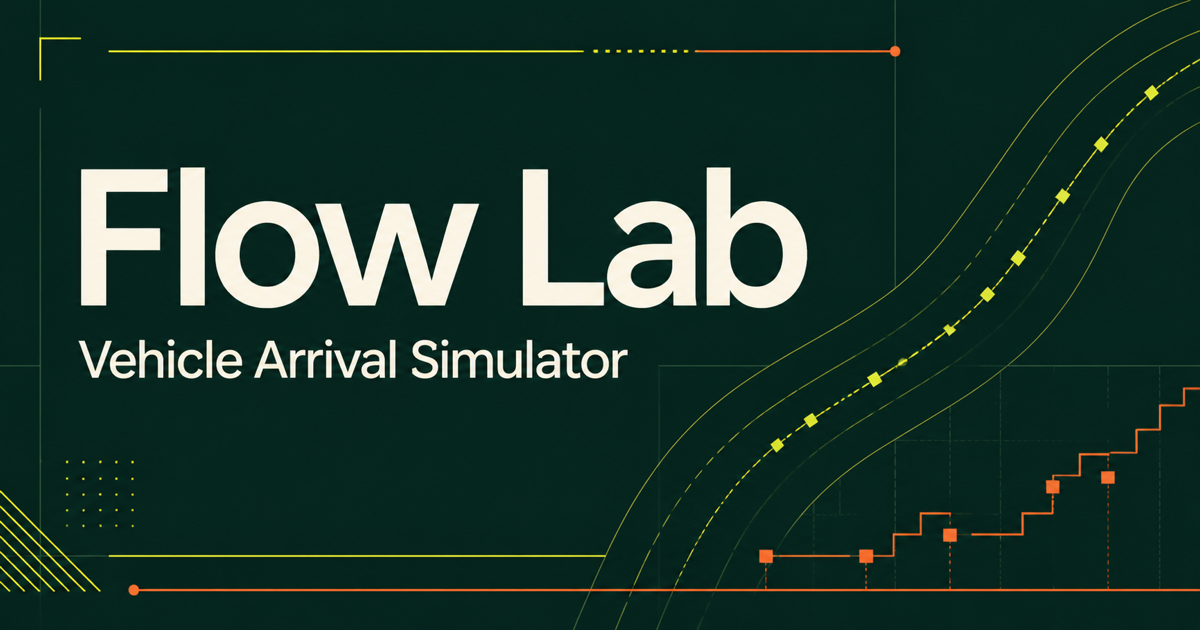
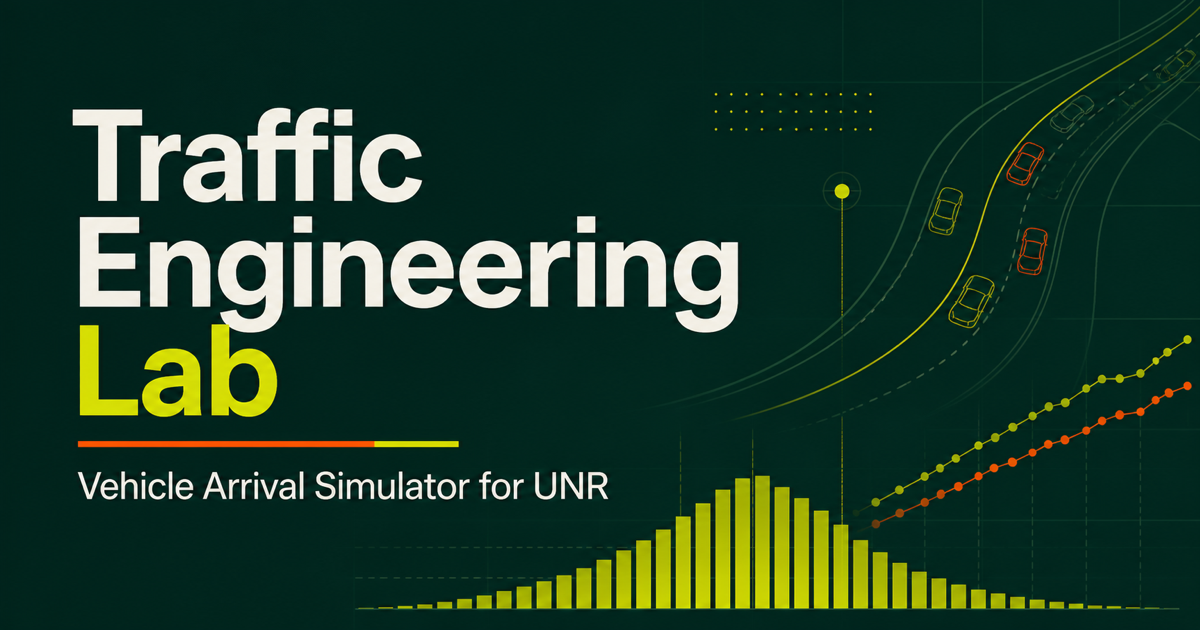
Rebrand site for UNR Traffic Engineering Lab

diff --git a/app/globals.css b/app/globals.css
@@ -8,6 +8,7 @@ button,input { font:inherit; }
 button { cursor:pointer; }
 .topbar { height:70px; padding:0 clamp(24px,5vw,76px); display:flex; align-items:center; justify-content:space-between; background:var(--deep); color:var(--white); border-bottom:1px solid #34504d; }
 .brand { display:flex; align-items:center; gap:13px; color:inherit; text-decoration:none; font-weight:800; letter-spacing:.13em; font-size:14px; }
+.brand small { color:var(--acid); font-size:9px; letter-spacing:.1em; white-space:nowrap; }
 .brandMark { width:29px; height:29px; display:grid; grid-template-columns:repeat(3,1fr); gap:3px; transform:skew(-8deg); }
 .brandMark i { display:block; background:var(--acid); }
 .brandMark i:nth-child(2) { background:var(--orange); }
@@ -118,5 +119,5 @@ tbody tr:last-child td { border-bottom:0; }
 tbody tr:hover { background:#f7f4eb; }
 footer { max-width:1280px; margin:0 auto; padding:24px 0; color:var(--muted); font-family:var(--font-geist-mono),monospace; font-size:8px; letter-spacing:.11em; }
 @media (max-width:820px) { .headerMeta{display:none}.hero{padding-top:54px}.hero::after{opacity:.25}.workspace{grid-template-columns:1fr;border:0}.controlPanel{border-right:0;border-bottom:1px solid var(--line);padding:36px 24px}.resultsPanel{padding:38px 24px 48px}.metricGrid{grid-template-columns:1fr 1fr}.metric{border-bottom:1px solid var(--line)}.metric:last-child{grid-column:1/-1;border-left:0;border-bottom:0}.ensembleGrid{grid-template-columns:1fr 1fr}.ensembleGrid article:nth-child(3){border-left:0;border-top:1px solid var(--line)}.ensembleGrid article:nth-child(4){border-top:1px solid var(--line)}footer{padding:22px 24px} }
-@media (max-width:520px) { .topbar{height:62px}.hero{padding:48px 24px}.hero h1{font-size:52px}.metricGrid{grid-template-columns:1fr}.metric,.metric:last-child{grid-column:auto;border-left:0}.distributionHeader{align-items:flex-start;gap:12px;flex-direction:column}.distributionHeader p{display:block;margin:6px 0 0}.distributionActions{width:100%;justify-content:space-between}.distributionHeader button{white-space:nowrap}.headwayLegend{justify-content:flex-start;gap:14px}.headwayChartWrap{padding-left:6px;padding-right:6px}.vehicleHistogram{height:190px;padding-left:12px;padding-right:12px;gap:4px}.vehicleHistLabel{font-size:6px}.chartCaption span:last-child{display:none}.tableHeader p{display:none}.road{margin:0 12px}footer{align-items:flex-start;gap:10px;flex-direction:column} }
+@media (max-width:520px) { .topbar{height:62px}.brand{font-size:10px;letter-spacing:.08em;gap:9px}.brandMark{width:24px;height:24px}.brand small{display:block;margin-top:3px;font-size:7px}.hero{padding:48px 24px}.hero h1{font-size:52px}.metricGrid{grid-template-columns:1fr}.metric,.metric:last-child{grid-column:auto;border-left:0}.distributionHeader{align-items:flex-start;gap:12px;flex-direction:column}.distributionHeader p{display:block;margin:6px 0 0}.distributionActions{width:100%;justify-content:space-between}.distributionHeader button{white-space:nowrap}.headwayLegend{justify-content:flex-start;gap:14px}.headwayChartWrap{padding-left:6px;padding-right:6px}.vehicleHistogram{height:190px;padding-left:12px;padding-right:12px;gap:4px}.vehicleHistLabel{font-size:6px}.chartCaption span:last-child{display:none}.tableHeader p{display:none}.road{margin:0 12px}footer{align-items:flex-start;gap:10px;flex-direction:column} }
 @media (prefers-reduced-motion:reduce) { *,*::before,*::after{scroll-behavior:auto!important;transition:none!important} }

diff --git a/app/page.tsx b/app/page.tsx
@@ -255,9 +255,9 @@ export default function Home() {
   return (
     <main>
       <header className="topbar">
-        <a className="brand" href="#top" aria-label="Flow Lab home">
+        <a className="brand" href="#top" aria-label="Traffic Engineering Lab at UNR home">
           <span className="brandMark" aria-hidden="true"><i /><i /><i /></span>
-          <span>FLOW LAB</span>
+          <span>TRAFFIC ENGINEERING LAB <small>/ UNR</small></span>
         </a>
         <div className="headerMeta">
           <span className="statusDot" /> STOCHASTIC ARRIVAL MODEL
@@ -267,7 +267,7 @@ export default function Home() {
       </header>
 
       <section className="hero" id="top">
-        <div className="eyebrow">TRAFFIC FLOW ANALYSIS / POISSON PROCESS</div>
+        <div className="eyebrow">UNR / TRAFFIC FLOW ANALYSIS / POISSON PROCESS</div>
         <h1>Vehicle arrival<br /><em>simulator.</em></h1>
         <p className="heroCopy">Generate randomized vehicle headways from a traffic volume and observe arrivals until the simulation horizon is reached.</p>
       </section>
@@ -464,7 +464,7 @@ export default function Home() {
         </div>
       </section>
 
-      <footer><span>FLOW LAB / TRAFFIC ENGINEERING TOOLKIT</span><span>Independent exponential headways • Poisson arrivals</span></footer>
+      <footer><span>TRAFFIC ENGINEERING LAB / UNR</span><span>Independent exponential headways • Poisson arrivals</span></footer>
     </main>
   );
 }

diff --git a/app/layout.tsx b/app/layout.tsx
@@ -13,17 +13,17 @@ const geistMono = Geist_Mono({
 });
 
 export const metadata: Metadata = {
-  title: "Flow Lab — Vehicle Arrival Simulator",
-  description: "A polished stochastic traffic-arrival simulator for transportation engineering.",
+  title: "Traffic Engineering Lab — UNR Vehicle Arrival Simulator",
+  description: "A stochastic vehicle-arrival simulator for the Traffic Engineering Lab at UNR.",
   openGraph: {
-    title: "Flow Lab — Vehicle Arrival Simulator",
-    description: "Explore random vehicle arrivals, repeated simulations, and run-to-run distributions.",
+    title: "Traffic Engineering Lab — UNR",
+    description: "Explore random vehicle arrivals, repeated simulations, and traffic headway distributions.",
     images: ["https://flow-lab-traffic-simulator.kingkm.chatgpt.site/og.png"],
   },
   twitter: {
     card: "summary_large_image",
-    title: "Flow Lab — Vehicle Arrival Simulator",
-    description: "Explore random vehicle arrivals, repeated simulations, and run-to-run distributions.",
+    title: "Traffic Engineering Lab — UNR",
+    description: "Explore random vehicle arrivals, repeated simulations, and traffic headway distributions.",
     images: ["https://flow-lab-traffic-simulator.kingkm.chatgpt.site/og.png"],
   },
   icons: {
